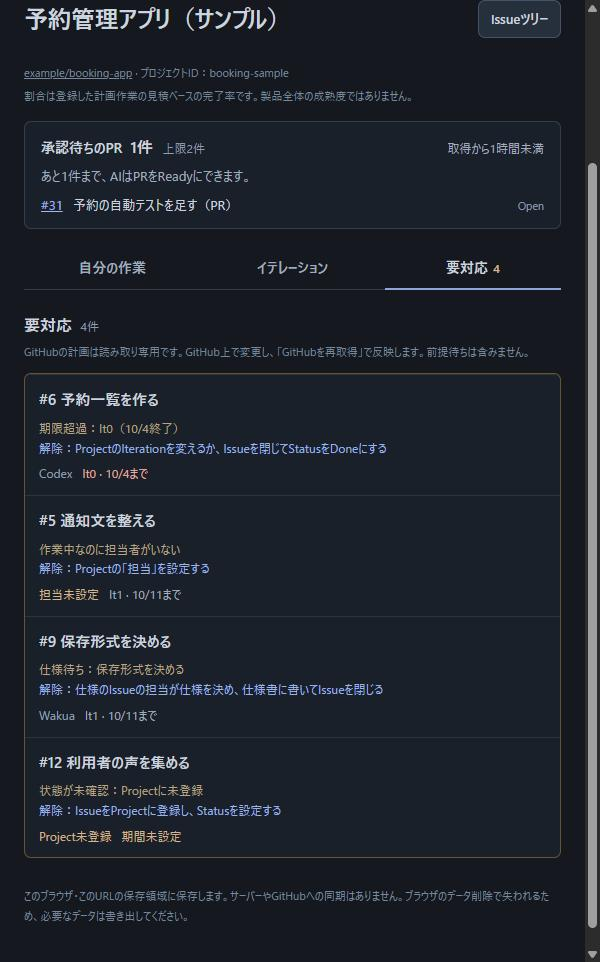
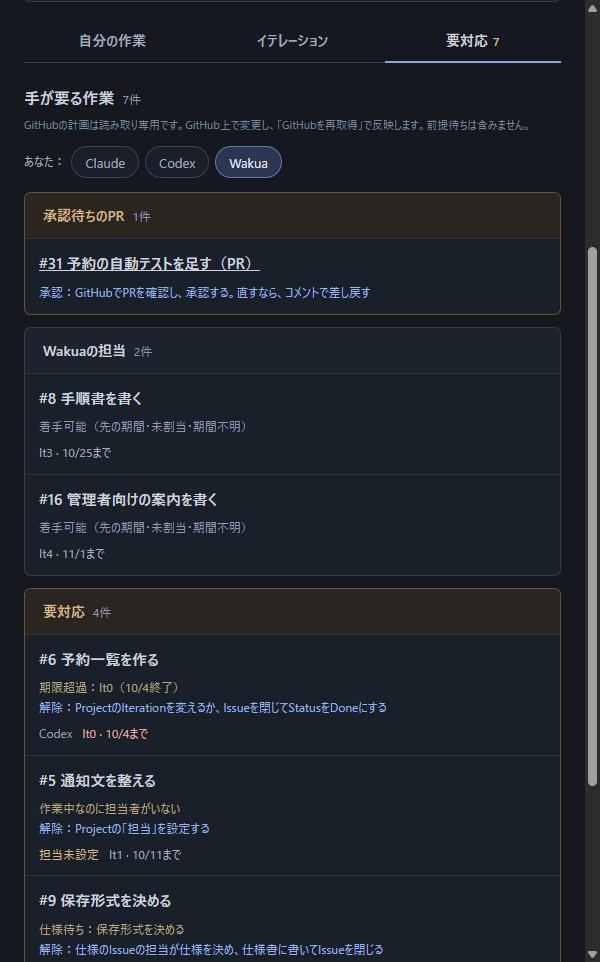
feat: 要対応タブに承認待ちのPRと「あなた」の担当を加える
実データで開いたところ、要対応が0件で、承認待ちのPRと人が担当の作業が見えなかった。

Refs #5

diff --git a/dist/attention.css b/dist/attention.css
@@ -5,3 +5,7 @@
 .attention-reason { display: block; color: #b9a585; }
 .attention-relief { display: block; color: #9db4e8; }
 .view-tab .tab-count { margin-left: 5px; color: var(--amber); font-size: 12px; font-weight: 600; }
+.attention-me { margin: 0 0 14px; align-items: center; }
+.attention-me-label { font-size: 12px; color: var(--muted); }
+.attention-state { display: block; color: #8f9cb0; }
+.attention-relief a { color: inherit; }
